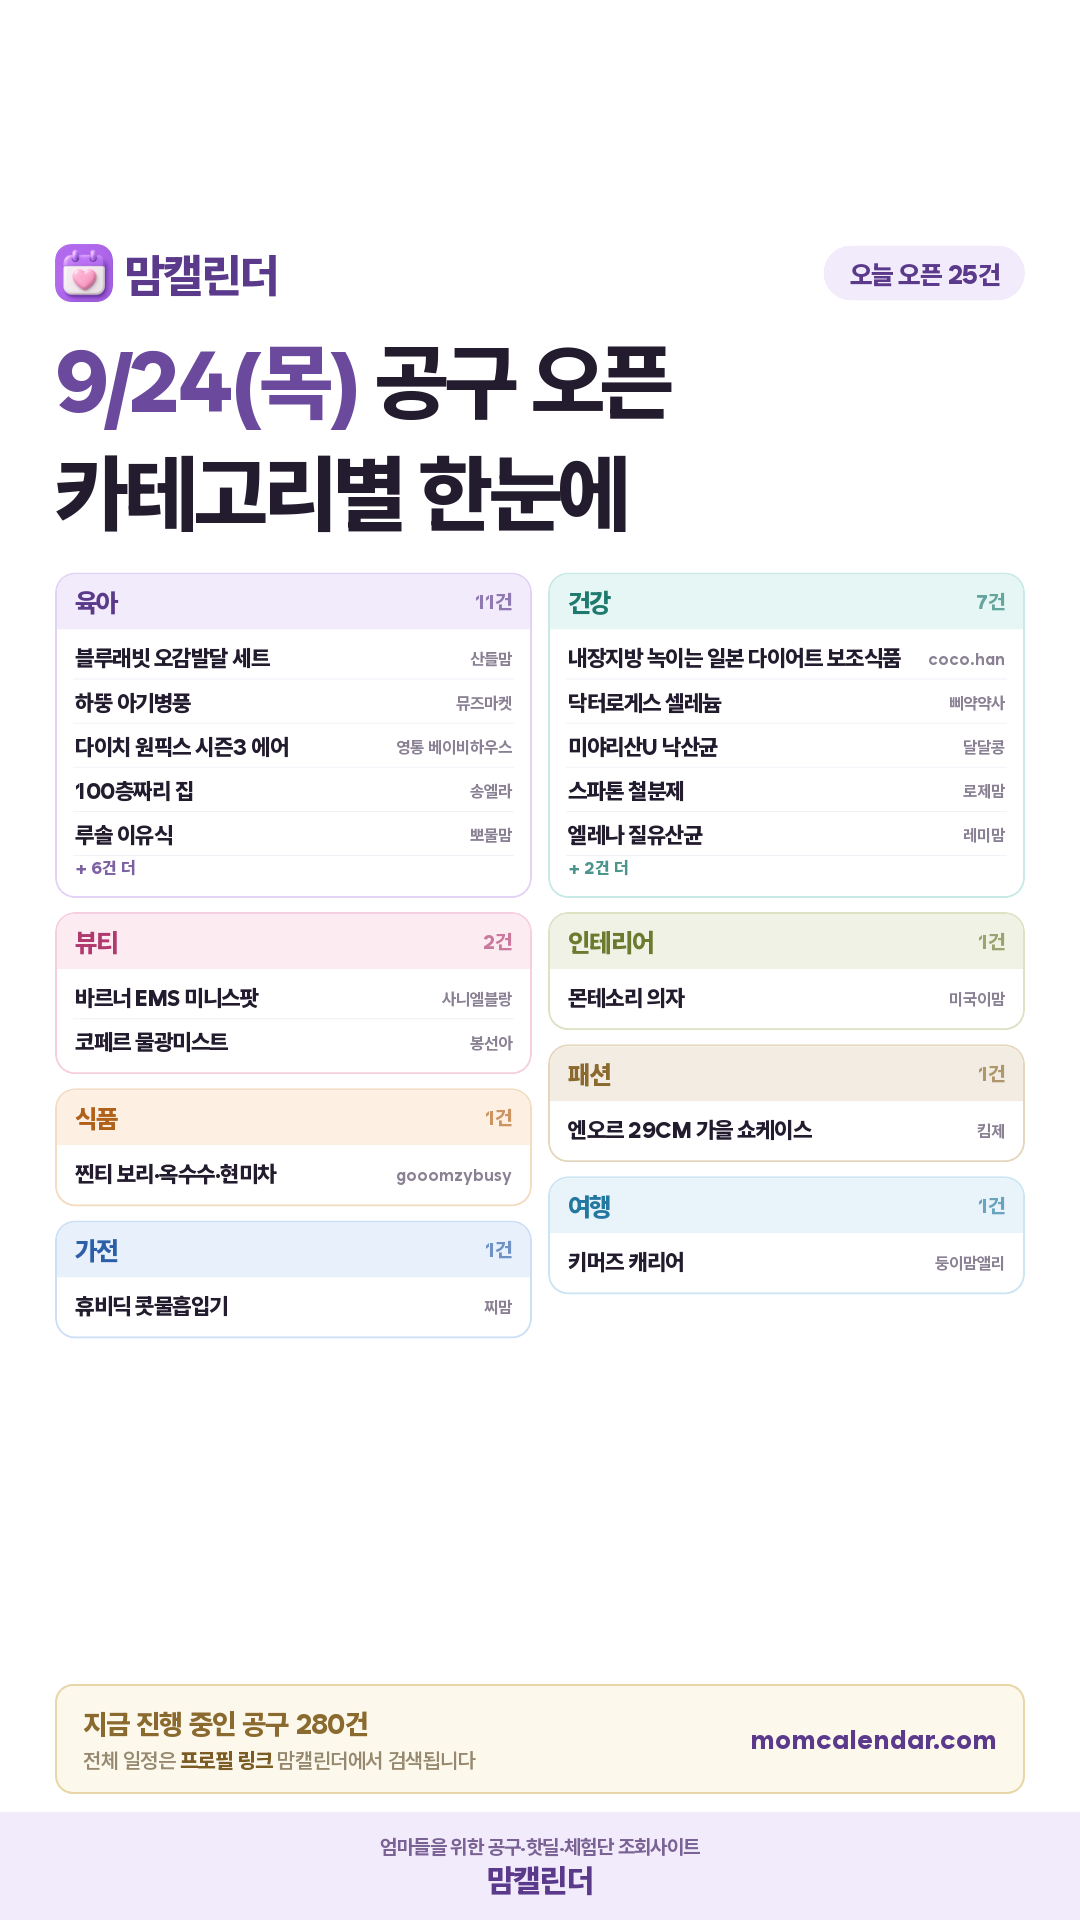
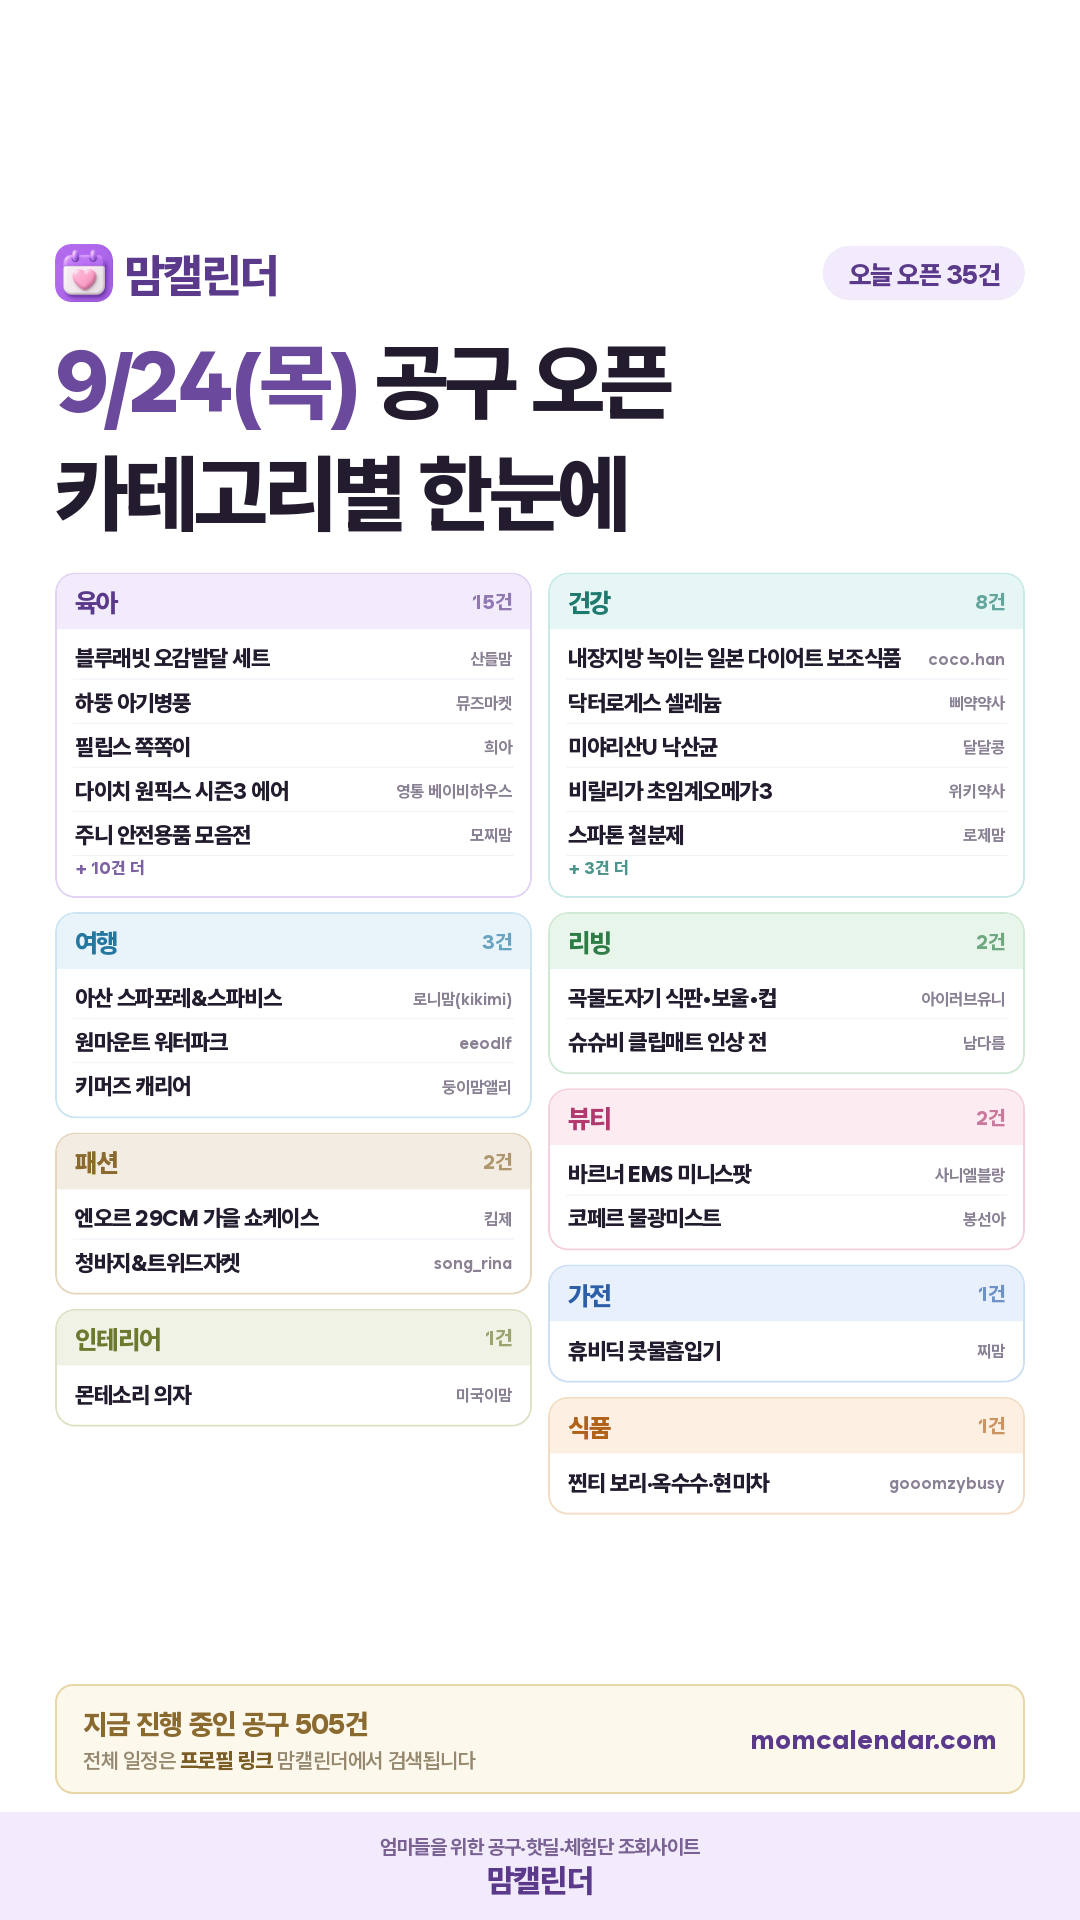
아침 인스타 카드 (2026-09-24)

diff --git a/daily/2026-09-24.html b/daily/2026-09-24.html
@@ -19,7 +19,7 @@ textarea{width:100%;height:260px;border:1px solid #E3DCEF;border-radius:10px;pad
 .todo p{font-size:12.5px;color:#6B6379;line-height:1.75;margin-top:6px}
 .todo a{color:#5B2E8C;font-weight:700}
 </style></head><body>
-<div class="hd"><div class="wrap"><h1>9월 24일(목) 인스타 카드</h1><p>카테고리 일정 · opens 25 · ends 76</p></div></div>
+<div class="hd"><div class="wrap"><h1>9월 24일(목) 인스타 카드</h1><p>카테고리 일정 · opens 35 · ends 111</p></div></div>
 <div class="wrap">
   
   <div class="card"><img src="./2026-09-24.png" alt="오늘 공구 카드"></div>
@@ -27,104 +27,98 @@ textarea{width:100%;height:260px;border:1px solid #E3DCEF;border-radius:10px;pad
   <div class="card">
     <textarea id="cap" readonly>오늘 오픈 공구, 놓치기 아까운 것만 골라 담았어요
 
-9월 24일(목) 공구 오픈 25건 · 마감 76건
+9월 24일(목) 공구 오픈 35건 · 마감 111건
 
 ━━━━━━━━━━━━━━
 
 🧸 육아
 · 블루래빗 오감발달 세트 — 산들맘 (~9/27)
 · 하뚱 아기병풍 — 뮤즈마켓 (~9/27)
+· 필립스 쪽쪽이 — 희아 (~9/27)
 · 다이치 원픽스 시즌3 에어 — 영통 베이비하우스 (~9/27)
+· 주니 안전용품 모음전 — 모찌맘 (~9/27)
 · 100층짜리 집 — 송엘라 (~10/1)
+· 또바기 10권 1만원대｜3종 — 수니점빵 (~9/27)
 · 루솔 이유식 — 뽀물맘 (~9/26)
+· 망고라이언 자존감 올림 동화 — 우니동동 (~9/30)
 · 세이톡·세이펜 — 도치맘 (~9/27)
 · 옴모 베이비 크레용 — 워니럽마켓 (~9/27)
-· 주니 안전용품 모음전 — 모찌맘 (~9/27)
 · 주니 텀블러 — 온그리 (~9/27)
+· 콕콕콕 사운드북 — 따리따리 (~9/27)
+· 테디후드롱퍼 3color — 키키하우스 (~9/27)
 · 파스텔버블 고쟁이 후드 셋업 — 도아네 (~9/27)
-· 필립스 쪽쪽이 — 희아패밀리 (~9/27)
 
 💊 건강
 · 내장지방 녹이는 일본 다이어트 보조식품 — coco.han (~9/28)
 · 닥터로게스 셀레늄 — 삐약약사 (~9/30)
 · 미야리산U 낙산균 — 달달콩 (~9/27)
+· 비릴리가 초임계오메가3 — 위키약사 (~9/27)
 · 스파톤 철분제 — 로제맘 (~9/27)
 · 엘레나 질유산균 — 레미맘 (~9/27)
 · 트루엔 비타민C — 은하약사 (~9/30)
 · 트리플쿨링 마그네슘 — 도비약사 (~9/27)
 
+✈ 여행
+· 아산 스파포레&amp;스파비스 — 로니맘(kikimi) (~9/27)
+· 원마운트 워터파크 — eeodlf (~9/27)
+· 키머즈 캐리어 — 둥이맘앨리 (~9/27)
+
+🏠 리빙
+· 곡물도자기 식판•보울•컵 — 아이러브유니 (~9/27)
+· 슈슈비 클립매트 인상 전 — 남다름 (~9/27)
+
 💄 뷰티
 · 바르너 EMS 미니스팟 — 사니엘블랑 (~9/27)
 · 코페르 물광미스트 — 봉선아 (~9/30)
 
-🛋 인테리어
-· 몬테소리 의자 — 미국이맘 (~9/27)
-
 👕 패션
 · 엔오르 29CM 가을 쇼케이스 — 킴제 (~9/27)
-
-🍱 식품
-· 찐티 보리·옥수수·현미차 — gooomzybusy (~9/28)
-
-✈ 여행
-· 키머즈 캐리어 — 둥이맘앨리 (~9/27)
+· 청바지&amp;트위드자켓 — song_rina (~9/27)
 
 🔌 가전
 · 휴비딕 콧물흡입기 — 찌맘 (~9/28)
 
+🛋 인테리어
+· 몬테소리 의자 — 미국이맘 (~9/27)
+
+🍱 식품
+· 찐티 보리·옥수수·현미차 — gooomzybusy (~9/28)
+
 ⏰ 오늘 마감
 · 미닉스 역대급 — 러브지나
-· 자브백 기저귀가방 — 희아패밀리
 · 쉐프윈 냄비 &amp; 후라이팬 — 로로맘
+· 자브백 기저귀가방 — 희아패밀리
+· 퍼기 큐브 2차 — 토코맘
+· 주니 실리콘 흡착 이유식 식기 — 무끼
 · 러닝리소스 — 다미댁
-· 로슬러실링팬 — 러브율홈
 · 레꼴뜨 무선 초퍼 — 베러심플
+· 바맘 배도라지즙 특가 — 윤슬라멜맘
+· 곡물도감 두유 그래놀라 — 서진쌤
+· 로슬러실링팬 — 러브율홈
+· 닥터노아 치약&amp;대나무칫솔 핫딜 — 잘먹는유니
 · 리라그루브 색연필 — 산들맘
 · 리투 양말 — 메이비홈(박보연)
-· 바맘 배도라지즙 특가 — 윤슬라멜맘
-· 베투키 키즈 오메가3 — 다니맘
 · 뽀로로 피자 — 짱구맘
 · 올스텐 주방살림 Best — 류니
 · 자브백 — 희아
-· 주니 실리콘 흡착 이유식 식기 — 무끼
-· 퍼기 큐브 2차 — 토코맘
+· 총영하이유산균 — 쓰리유홈
 · 퓨어젠 면역 프로폴리스 — 도비약사
 · 훈민 두배로 실사진 스티커북 — 뽀물이네
+· 훈민 올어바웃 마이바디 + 뼈차트도안 — 도하맘
 · [밴밧] 호프 카미러 — 푸푸네
-· 곡물도감 두유 그래놀라 — 서진쌤
+· 10월 인상 전 마지막, 엔에프락 — 솔트마망
+· 가쉬 버블 마스크팩 — 소디
+· 과학공화국 법정시리즈 — 양아름
 · 국민 육아템 "헤이홈 홈캠" — 서안맘
+· 그릭케이크 유청분리기 — 디유
+· 길이조절 팬 정리대 — 마마홈
+· 길쭉담이 수납함 — 홈이분의일
+· 꼬메모이 미니책장특집 — 리리맘
 · 노르딕슬립 침구 — 곰부인네
 · 눈건강 항산화 빌베리 곰젤리 — 약빵약사
 · 니도 — 라온
 · 다독결 — 하겸
-· 데코아르 폴딩 미니 웨건 — 마드앤룸
-· 디아모모 — 러브모모
-· 라비킷 베개 모음전 — 모찌맘
-· 램스킨 플랫슈즈 — siyeon0220
-· 레벨릭스 소근육 발달세트 3종 — 맘조이
-· 로지오가닉 퓨레 — 미국이맘
-· 롱샴 르 플리아쥬 — 프롬졸리
-· 룩트 킨디 — 다겨미네
-· 맘스보드 레브하우스 2차 — 젤리또리
-· 몸 속을 비춰봐 — 류둥이네
-· 무무칩 15차 — 시온이네
-· 무밀무설 — 다루세상
-· 밀키요 요거트 — 서연맘
-· 바리바디 마사지스틱·볼 4차 — 매일부엌
-· 버티젠 — 달달콩
-· 베베추피 — 사라홈
-· 베이비부스트 — 그루비슬
-· 벤시몽 신발 / 슈메르 가을양말 — 홍익마미
-· 보령 발레리조트 — 달콤맘
-· 비비안웨스트우드 머플러 &amp; 톰브라운 카드지갑 — mimiwor
-· 비올란 모음전 — 로제맘
-· 비타민D K2 — 딸기약사
-· 세척간편 이지클린 가습기 — 수아빈홈
-· 소노벨 단양 — 제니져니
-· 시야쥬 — 말리
-· 아넬라 생과일 퓨레 — 태리하루
-· 아오라 장난감 정리함 — 수니점빵
-…외 25건
+…외 78건
 
 
 ━━━━━━━━━━━━━━
@@ -150,7 +144,7 @@ textarea{width:100%;height:260px;border:1px solid #E3DCEF;border-radius:10px;pad
   </div>
   <div class="card">
     <div class="meta" style="margin:0 0 8px;font-weight:800;color:#5B2E8C">네이버 블로그용 (blog.naver.com/momcal) — 수정해서 쓰셔도 돼요</div>
-    <textarea id="btitle" style="height:54px">9월 24일(목) 오늘의 공구 일정 | 휴비딕·내장지방·닥터로게스·미야리산U·스파톤·엘레나 공구 총정리</textarea>
+    <textarea id="btitle" style="height:54px">9월 24일(목) 오늘의 공구 일정 | 휴비딕·내장지방·닥터로게스·미야리산U·비릴리가·스파톤 공구 총정리</textarea>
     <button class="btn btn2" onclick="cp('btitle','블로그 제목')">블로그 제목 복사</button>
     <textarea id="bbody" style="margin-top:9px">
 
@@ -177,15 +171,17 @@ https://open.kakao.com/o/gr2kJhCh
 
 ─────────────
 
-9월 24일(목), 인스타 셀러들이 오늘 여는 공구 29건을 모아왔어요.
-함께 마감 85건도 정리했어요. 놓친 게 없는지 훑어보세요.
+9월 24일(목), 인스타 셀러들이 오늘 여는 공구 40건을 모아왔어요.
+함께 마감 131건도 정리했어요. 놓친 게 없는지 훑어보세요.
 
-■ 오늘 시작하는 공구 29건
+■ 오늘 시작하는 공구 40건
 
 [육아]
 · 100층짜리 집 — 송엘라 (~10/1 마감)
 · 다이치 원픽스 시즌3 에어 — 영통 베이비하우스 (~9/27 마감)
+· 또바기 10권 1만원대｜3종 — 수니점빵 (~9/27 마감)
 · 루솔 이유식 — 뽀물맘 (~9/26 마감)
+· 망고라이언 자존감 올림 동화 — 우니동동 (~9/30 마감)
 · 블루래빗 오감발달 세트 — 산들맘 (~9/27 마감)
 · 세이톡·세이펜 — 도치맘 (~9/27 마감)
 · 옴모 베이비 크레용 — 워니럽마켓 (~9/27 마감)
@@ -193,11 +189,17 @@ https://open.kakao.com/o/gr2kJhCh
 · 주니 안전용품 모음전 — 모찌맘 (~9/27 마감)
 · 주니 텀블러 — 온그리 (~9/27 마감)
 · 카시트는 '눕는 각도'가 핵심 — 영통 베이비하우스 (~9/27 마감)
+· 콕콕콕 사운드북 — 따리따리 (~9/27 마감)
+· 테디후드롱퍼 3color — 키키하우스 (~9/27 마감)
 · 파스텔버블 고쟁이 후드 셋업 — 도아네 (~9/27 마감)
-· 필립스 쪽쪽이 — 희아패밀리 (~9/27 마감)
 · 필립스 쪽쪽이 — 희아 (~9/27 마감)
+· 필립스 쪽쪽이 — 희아패밀리 (~9/27 마감)
 · 하뚱 아기병풍 — 뮤즈언니 (~9/27 마감)
 · 하뚱 아기병풍 — 뮤즈마켓 (~9/27 마감)
+
+[리빙]
+· 곡물도자기 식판•보울•컵 — 아이러브유니 (~9/27 마감)
+· 슈슈비 클립매트 인상 전 — 남다름 (~9/27 마감)
 
 [식품]
 · 찐티 보리·옥수수·현미차 — gooomzybusy (~9/28 마감)
@@ -206,9 +208,11 @@ https://open.kakao.com/o/gr2kJhCh
 · 내장지방 녹이는 일본 다이어트 보조식품 — coco.han (~9/28 마감)
 · 닥터로게스 셀레늄 — 삐약약사 (~9/30 마감)
 · 미야리산U 낙산균 — 달달콩 (~9/27 마감)
+· 비릴리가 초임계오메가3 — 위키약사 (~9/27 마감)
 · 스파톤 철분제 — 로제맘 (~9/27 마감)
 · 엘레나 질유산균 — 레미맘 (~9/27 마감)
 · 트루엔 비타민C — 은하약사 (~9/30 마감)
+· 트루엔 키즈 아르기닌 — 베이지약사 (~9/27 마감)
 · 트리플쿨링 마그네슘 — 도비약사 (~9/27 마감)
 
 [뷰티]
@@ -220,21 +224,34 @@ https://open.kakao.com/o/gr2kJhCh
 
 [패션]
 · 엔오르 29CM 가을 쇼케이스 — 킴제 (~9/27 마감)
+· 청바지&amp;트위드자켓 — song_rina (~9/27 마감)
 
 [여행]
+· 아산 스파포레&amp;스파비스 — 로니맘(kikimi) (~9/27 마감)
+· 원마운트 워터파크 — eeodlf (~9/27 마감)
 · 키머즈 캐리어 — 둥이맘앨리 (~9/27 마감)
 
 [인테리어]
 · 몬테소리 의자 — 미국이맘 (~9/27 마감)
 
-■ 오늘 마감하는 공구 85건
+■ 오늘 마감하는 공구 131건
 · [밴밧] 호프 카미러 — 푸푸네
+· 10월 인상 전 마지막, 엔에프락 — 솔트마망
+· 가쉬 버블 마스크팩 — 소디
 · 곡물도감 두유 그래놀라 — 서진쌤
+· 과학공화국 법정시리즈 — 양아름
 · 국민 육아템 "헤이홈 홈캠" — 서안맘
+· 그릭케이크 유청분리기 — 디유
+· 길이조절 팬 정리대 — 마마홈
+· 길쭉담이 수납함 — 홈이분의일
+· 꼬메모이 미니책장특집 — 리리맘
 · 노르딕슬립 침구 — 곰부인네
 · 눈건강 항산화 빌베리 곰젤리 — 약빵약사
 · 니도 — 라온
 · 다독결 — 하겸
+· 닥터노아 치약&amp;대나무칫솔 핫딜 — 잘먹는유니
+· 닭가슴살 꿔바로우 — 다루세상
+· 데이타민 활성형엽산 — 쀼약사
 · 데코아르 폴딩 미니 웨건 — 마드앤룸
 · 디아모모 — 러브모모
 · 라비킷 베개 모음전 — 모찌맘
@@ -250,68 +267,104 @@ https://open.kakao.com/o/gr2kJhCh
 · 리라그루브 색연필 — 산들맘
 · 리라그루브·프로살림 자동연필깎이 — 나니맘
 · 리투 양말 — 메이비홈(박보연)
+· 리포좀비타민c 1000mg — 딸기약사
 · 맘스보드 레브하우스 2차 — 젤리또리
+· 매직쉐프 전동그라인더 — 예맘네
+· 매직캔 쓰레기통 — 박다솜
+· 모두의육수 — 차차식탁
 · 몸 속을 비춰봐 — 류둥이네
 · 무무칩 15차 — 시온이네
 · 무밀무설 — 다루세상
 · 미닉스 역대급 — 러브지나
+· 미닉스 음식물처리기 맥스 — 홈앤홈
 · 밀키요 요거트 — 서연맘
+· 바덴하임 믹싱볼 전용 거치랙 &amp; 믹싱볼 세트 — 에루홈
 · 바리바디 마사지스틱·볼 4차 — 매일부엌
 · 바맘 배도라지즙 특가 — 윤슬라멜맘
+· 바바코 멀티 써니밤 — 위드나미
 · 버티젠 — 달달콩
 · 베베추피 — 사라홈
 · 베이비부스트 — 그루비슬
 · 베투키 키즈 오메가3 — 다니맘
 · 벤시몽 신발 / 슈메르 가을양말 — 홍익마미
 · 보령 발레리조트 — 달콤맘
+· 블루래빗 비지북 — 강윤맘
 · 비비안웨스트우드 머플러 &amp; 톰브라운 카드지갑 — mimiwor
 · 비올란 모음전 — 로제맘
 · 비타민D K2 — 딸기약사
 · 뽀로로 피자 — 짱구맘
+· 뽀로로&amp;타요 순면 팬티 / 배변훈련 팬티 — 두둥맘
 · 세척간편 이지클린 가습기 — 수아빈홈
 · 소노벨 단양 — 제니져니
 · 쉐프윈 냄비 &amp; 후라이팬 — 로로맘
+· 스토피아 올스텐 욕실용품 — 밥설공주
 · 시야쥬 — 말리
+· 아기추피의 생활이야기 — 믿쓰릴리맘
 · 아넬라 생과일 퓨레 — 태리하루
+· 아디다스 토박스 2026 출고 신상품 — 우니동동
+· 아띠래빗 쏙쏙 실리콘 머핀틀 — 소째밀
 · 아오라 장난감 정리함 — 수니점빵
 · 아이언애스 세탁세제 — 해피엘
 · 아클리브 보호필름 2차 — 르미뇽살림
 · 아토케어 침구청소기 — 우아맘
 · 알텐바흐 디펜더스S 프라이팬&amp;웍 — 문성실
+· 애플비 골라담기 — 트윙클멜로우
 · 에르모어 배경없는 네임스티커 — 무끼
 · 에바솔로 조리도구 시리즈 — 로코하우스
+· 엔에프락 밀폐용기 — 홈앤홈
 · 오메가3+ D3K2 — parksovin
+· 오보기 블랭킷모음전 — grow.up456
 · 올리브오일, 서해한과 — 리후랜드 대표
 · 올리올리 하나둘셋 — 워니럽마켓
+· 올스텐 양면 도마 — 심플혜영
 · 올스텐 주방살림 Best — 류니
+· 요루거즈 스카프빕 — 쭈뱅부부
+· 우잇 특별 — 엘쓰맘
+· 워셔블 사계절 러그 — 마마홈
 · 윗클 — 책육아 우주맘
 · 윙플라 5차 — 아롱레시피
+· 유니즈 모션소파 2차 — 수지살림
 · 인지력케어 포스파티딜세린 플러스 — 강약사
+· 입모아 텀블러 특별할인 - JOONIE — 도치맘
 · 자브백 — 희아
 · 자브백 기저귀가방 — 희아패밀리
 · 잔스포츠 — 랑랑맘
 · 정품 폴로 코튼 크루넥 가디건 — 프롬졸리
 · 제로 소시지 2차 — 시니맘
 · 종근당 젤튼튼 키즈 아르기닌 스틱 — 이현찰퐁맘
+· 주니 벨리곰 원터치 이지 빨대컵 — 주주맘
 · 주니 실리콘 흡착 이유식 식기 — 무끼
 · 주니 컵 모음전 — 오니맘
+· 지압슬리퍼 — 로지
+· 지켜텐&amp;지켜롱 — 프롬졸리
+· 진짜닭 치킨 너겟 — 츄아맘
+· 짐샌더슨 테라조 컬러 커팅보드 5종 단품 — 도하세하네
 · 총영하이유산균 — 쓰리유홈
 · 추피 영문판 2차 — 송엘라
 · 추피 영문판 전집 — 쁨마미
 · 추피의 생활이야기 영문판 — 워니럽마켓
 · 카시트 후방거울 — 푸푸네집
+· 캠브로 캠트레이 — 연테이블
 · 캠블리키즈 화상영어 12차 — 서진쌤
 · 코리의 생활동화 — 도치맘
 · 키즈엠 조작북 보드북 골라담기 — yulniverze
 · 트루엔 트리플 마그네슘·저스트글로우 트레온산 마그네슘 — 뵤리약사
 · 퍼기 큐브 2차 — 토코맘
+· 퓨리토 — dasik.yaksa
 · 퓨어젠 면역 프로폴리스 — 도비약사
+· 프랭클린 아기세제 모음전 — 쩌스트맘
 · 프로쉬 기획전 — 블즈
+· 피타니 팻아웃 샷 — 미니결
+· 하드 케이스 파우치 핫딜 — 쭈떠맘
 · 햇연근 — rchanfarm
+· 헤베스템 엔자임 클렌저 + 크림 — 이안
+· 헤베스템 유리알팩, 크림랩핑팩 — 달달콩
 · 호주 어그 — 간식당
+· 호주 정품 어그, 망설이는 순간 — 앙젤리크
 · 홈쇼핑 방영 세인트 프랑 트리트먼트 크림 — coco.han
 · 훈민 두배로 실사진 스티커북 — 뽀물이네
 · 훈민 실사진 스티커북 — 소프트모노
+· 훈민 올어바웃 마이바디 + 뼈차트도안 — 도하맘
 · 휴먼 나의 첫 과학책 — 러브율홈
 
 ■ 오늘의 브랜드: 휴비딕
@@ -321,7 +374,7 @@ https://open.kakao.com/o/gr2kJhCh
 
 ※ 공구 일정은 판매자 사정에 따라 변경되거나 조기 마감될 수 있어요. 구매 전에 해당 셀러 계정에서 한 번 더 확인해 주세요.
 
-#공구일정 #인스타공구 #인스타공구일정 #공동구매 #오늘의공구 #육아공구 #육아템 #공구모음 #휴비딕공구 #내장지방공구 #닥터로게스공구 #미야리산U공구 #스파톤공구 #엘레나공구 #트루엔공구 #트리플쿨링공구</textarea>
+#공구일정 #인스타공구 #인스타공구일정 #공동구매 #오늘의공구 #육아공구 #육아템 #공구모음 #휴비딕공구 #내장지방공구 #닥터로게스공구 #미야리산U공구 #비릴리가공구 #스파톤공구 #엘레나공구 #트루엔공구</textarea>
     <button class="btn" onclick="cp('bbody','블로그 본문 전체')">블로그 본문 전체 복사 (태그 포함)</button>
     <div class="meta">순서: 사진 저장 → 블로그 앱 글쓰기 → 제목 붙여넣기 → 본문 붙여넣기 → 본문 맨 위에 사진 추가 → 발행. 끝의 #태그들은 자동으로 태그가 돼요</div>
   </div>

diff --git a/daily/today.html b/daily/today.html
@@ -1,15 +1,15 @@
 <!DOCTYPE html><html lang="ko"><head>
 <meta charset="UTF-8"><meta name="viewport" content="width=device-width,initial-scale=1">
 <meta name="robots" content="noindex,nofollow">
-<title>9/22(화) 오늘 공구 캘린더</title>
-<meta property="og:title" content="9/22(화) 오늘 공구 캘린더">
-<meta property="og:image" content="https://momcalendar.com/daily/today.png?v=2026-09-22">
+<title>9/24(목) 오늘 공구 캘린더</title>
+<meta property="og:title" content="9/24(목) 오늘 공구 캘린더">
+<meta property="og:image" content="https://momcalendar.com/daily/today.png?v=2026-09-24">
 <style>body{margin:0;background:#F6F4F9;font-family:-apple-system,BlinkMacSystemFont,'Apple SD Gothic Neo','Malgun Gothic',sans-serif;text-align:center}
 h1{font-size:17px;color:#4A1A78;padding:14px 0 10px;margin:0}
 img{width:100%;max-width:540px;display:block;margin:0 auto;border-radius:12px;box-shadow:0 2px 12px rgba(96,32,144,.12)}
 p{font-size:12.5px;color:#8A8A8A;padding:12px}</style></head><body>
-
-<h1>9/22(화) 오늘 공구 캘린더</h1>
-<img src="./today.png?v=1790055875821" alt="9/22(화) 오늘 공구 캘린더">
+<p style="margin:0;padding:10px 14px;background:#FFE9E9;color:#B3261E;font-size:13px;font-weight:700;line-height:1.5">⚠ 🔴 사이트 오류 레이더 1건: 우회로 중 서버5xx 1h 0·24h 2 — 세션에서 select * from error_radar()</p>
+<h1>9/24(목) 오늘 공구 캘린더</h1>
+<img src="./today.png?v=1790211130711" alt="9/24(목) 오늘 공구 캘린더">
 <p>매일 아침 자동으로 새로 그려집니다 · <a href="https://momcalendar.com">맘캘린더</a></p>
 </body></html>

diff --git a/daily/index.html b/daily/index.html
@@ -1,1 +1,1 @@
-<!DOCTYPE html><meta charset="UTF-8"><meta http-equiv="refresh" content="0;url=./2026-09-22.html">
+<!DOCTYPE html><meta charset="UTF-8"><meta http-equiv="refresh" content="0;url=./2026-09-24.html">
